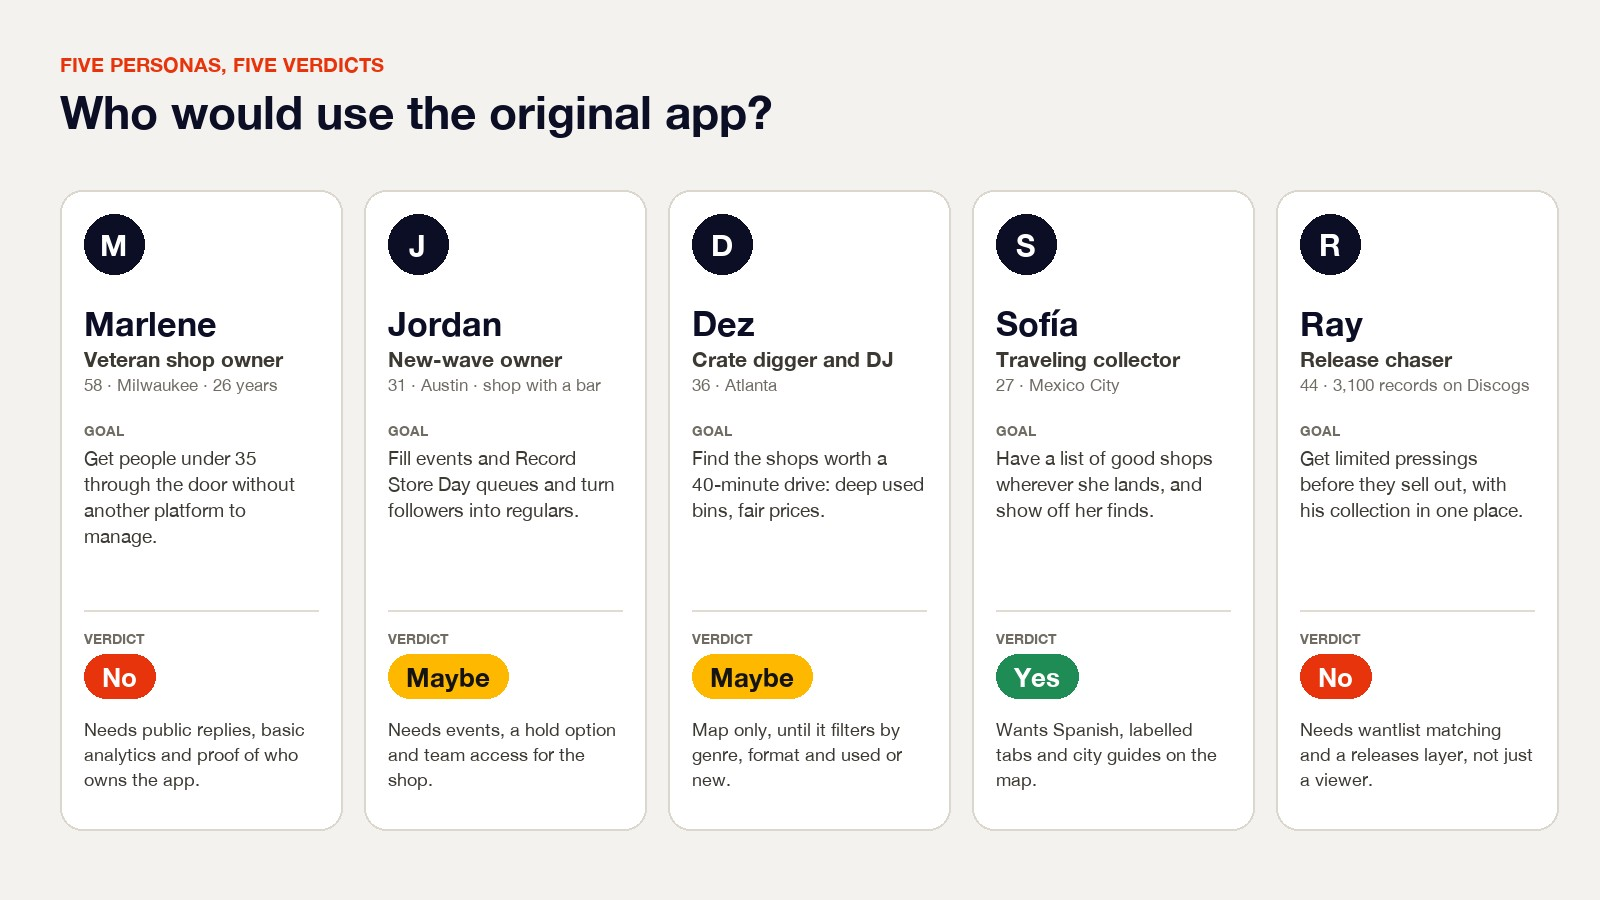
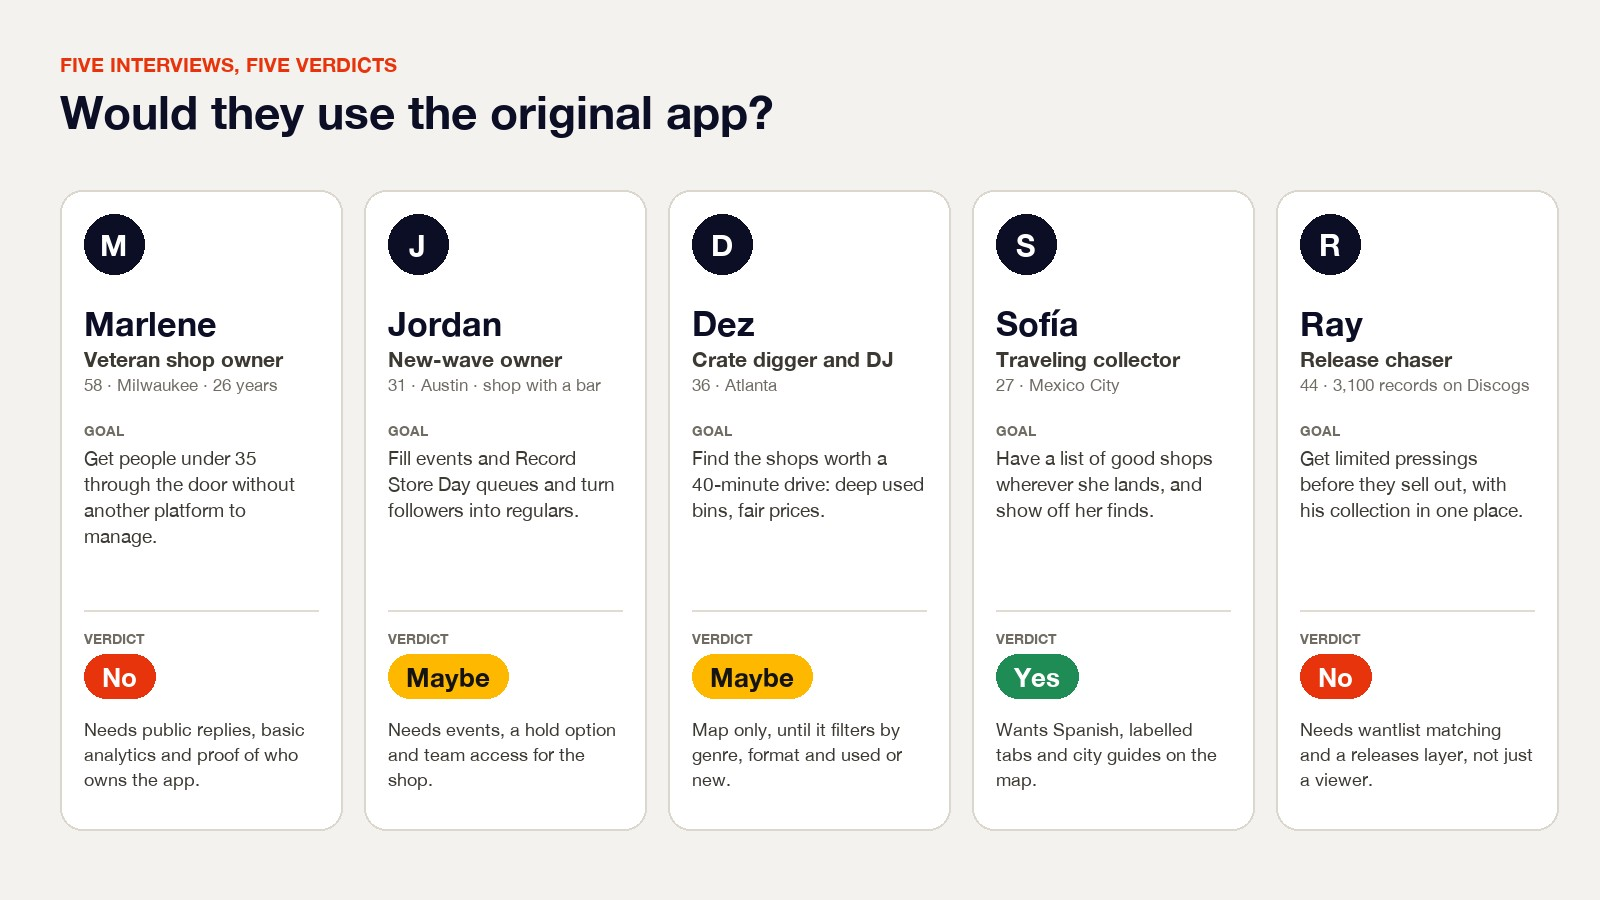
VinylMapper: describe the research as five interviews

Changed region(s): [[0.0625, 0.0622, 0.4688, 0.1556]]

diff --git a/js/projects-data.js b/js/projects-data.js
@@ -628,28 +628,28 @@ const PROJECTS = [
     "tools": [
       "Figma"
     ],
-    "excerpt": "A redesign of a social app for record collectors, driven by a persona research round that turned five verdicts into a ranked list of changes.",
+    "excerpt": "A redesign of a social app for record collectors, driven by five interviews that turned five verdicts into a ranked list of changes.",
     "showcase": "assets/images/vinylmapper_case_cover.png?v=2",
     "cover": "assets/images/vinylmapper-header.jpg?v=2",
     "gallery": [],
     "caseStudy": {
-      "outcome": "Turning five personas’ verdicts into a clearer, more useful VinylMapper.",
+      "outcome": "Turning five interviews into a clearer, more useful VinylMapper.",
       "summary": {
-        "problem": "VinylMapper is a social app where record collectors find stores, follow them, review them and share what they find. Its prototype looked good, but it had not picked a main job. I ran a persona research round on the original design, ranked the findings and redesigned the navigation and the product around them.",
+        "problem": "VinylMapper is a social app where record collectors find stores, follow them, review them and share what they find. Its prototype looked good, but it had not picked a main job. I interviewed five people on the original design, ranked the findings and redesigned the navigation and the product around them.",
         "role": "UX/UI designer",
-        "scope": "Persona research, navigation, interface and prioritised changes · 2025–2026",
+        "scope": "Interviews, navigation, interface and prioritised changes · 2025–2026",
         "team": "Agency product team",
         "duration": "2025–2026",
         "result": {
           "value": "2 No · 2 Maybe · 1 Yes",
-          "label": "the five personas’ verdicts on the original, and the brief for what changed"
+          "label": "the five interviewees’ verdicts on the original, and the brief for what changed"
         }
       },
       "problem": {
         "heading": "A good-looking app that had not picked a main job",
         "text": [
           "VinylMapper lets collectors find record stores on a map, follow them, review them, check in and share what they find, and lets store owners claim and manage their listing. The first version had well over a hundred screens and states, and a navigation that had grown screen by screen: five equal tabs, three icon-only tab sets and a More menu with eleven tiles.",
-          "To see how it held up, I walked the original prototype with five personas drawn from its audiences: two store owners, a crate digger, a traveling collector and a release chaser. Only one of the five would have used it as it was. The others said Maybe or No, for reasons that pointed to the same few problems.",
+          "To see how it held up, I interviewed five people from its audiences while they walked through the original prototype: two store owners, a crate digger, a traveling collector and a release chaser. Only one of the five would have used it as it was. The others said Maybe or No, for reasons that pointed to the same few problems.",
           "The goal became to act on those problems in order of impact: pick a front door, use the data the app already collects, give owners a reason to stay, earn their trust and stop making people learn the app by tapping."
         ],
         "image": {
@@ -661,8 +661,8 @@ const PROJECTS = [
         "text": "I worked on this at the agency that builds VinylMapper. I ran the research round, turned it into a ranked list of changes and redesigned the product around it, from the navigation to the owner tools.",
         "scope": [
           {
-            "label": "Persona research",
-            "text": "Five personas, covering owners and collectors, each walked through the original prototype."
+            "label": "Interviews",
+            "text": "Five people, covering owners and collectors, each walked through the original prototype."
           },
           {
             "label": "Findings and priorities",
@@ -687,7 +687,7 @@ const PROJECTS = [
         ]
       },
       "decisions": {
-        "heading": "Six changes, each traced to what the personas said",
+        "heading": "Six changes, each traced to what people said",
         "items": [
           {
             "title": "Make the map the front door, and keep Create one tap away",
@@ -779,13 +779,13 @@ const PROJECTS = [
         "heading": "From verdicts to a ranked set of changes",
         "items": [
           {
-            "caption": "1. Five personas, one list of findings",
+            "caption": "1. Five interviews, one list of findings",
             "problem": "The prototype looked good, but nobody had checked whether it worked for the people it was for.",
-            "solution": "Walk it with five personas, then trace every finding to who raised it and rank it.",
-            "text": "I built five personas around the app’s audiences: Marlene, a veteran shop owner; Jordan, who runs a newer shop with a bar; Dez, a crate digger and DJ; Sofía, a collector who travels; and Ray, a release chaser with his collection on Discogs. Each walked the original prototype and gave a verdict. Seven findings came out of it, from having no main job to small details like mixed units. I ranked them from P0 to P2, and every change in the redesign points back to one of them.",
+            "solution": "Interview five people as they walk it, then trace every finding to who raised it and rank it.",
+            "text": "I interviewed five people from the app’s audiences: Marlene, a veteran shop owner; Jordan, who runs a newer shop with a bar; Dez, a crate digger and DJ; Sofía, a collector who travels; and Ray, a release chaser with his collection on Discogs. Each one walked through the original prototype and gave a verdict. Seven findings came out of it, from having no main job to small details like mixed units. I ranked them from P0 to P2, and every change in the redesign points back to one of them.",
             "images": [
               {
-                "src": "assets/images/vk-panel.jpg"
+                "src": "assets/images/vk-panel.jpg?v=2"
               },
               {
                 "src": "assets/images/vk-findings.jpg"
@@ -845,12 +845,12 @@ const PROJECTS = [
           },
           {
             "caption": "5. Validate before building",
-            "problem": "These changes rest on personas, so they need real people before they are built.",
+            "problem": "These changes rest on five interviews, a small sample, so they need a wider check before they are built.",
             "solution": "Plan a 5-user usability test, owner interviews and a first-click test on tab order.",
             "text": "The redesign is a set of bets, and I wrote down how to check them. A usability test with five people, two store owners, two diggers or release chasers and one traveler, on tasks like finding an open used-soul shop within 10 miles, claiming a store and posting an event. Owner interviews before any owner tool is built, asking what proof would make them post weekly. And a first-click test comparing a Map-first with a Feed-first landing, to ship the order that wins on discovery tasks.",
             "images": [
               {
-                "src": "assets/images/vk-validation.jpg"
+                "src": "assets/images/vk-validation.jpg?v=2"
               }
             ]
           }
@@ -861,7 +861,7 @@ const PROJECTS = [
         "items": [
           {
             "value": "7 findings",
-            "label": "Ranked from P0 to P2 and traced to the persona who raised each one."
+            "label": "Ranked from P0 to P2 and traced to the person who raised each one."
           },
           {
             "value": "40 screens",
@@ -872,7 +872,7 @@ const PROJECTS = [
             "label": "Planned before building: a 5-user usability test, owner interviews and a first-click test on tab order."
           }
         ],
-        "note": "The research is a persona walkthrough of the prototype, not a study with real users, so the verdicts and findings are directional until the validation plan is run."
+        "note": "Five interviews are a small, qualitative sample, so the verdicts and findings are directional until the validation plan is run."
       },
       "learnings": {
         "heading": "Pick a front door, then earn the rest",

diff --git a/index.html b/index.html
@@ -14,10 +14,10 @@
 <link rel="preconnect" href="https://fonts.gstatic.com" crossorigin>
 <link href="https://fonts.googleapis.com/css2?family=Inter:wght@400;500;600;700;800&display=swap" rel="stylesheet">
 
-<link rel="stylesheet" href="css/style.css?v=20261161">
-<link rel="stylesheet" href="css/home.css?v=20261161">
-<link rel="stylesheet" href="css/hero-lab.css?v=20261161">
-<script src="js/page-wipe.js?v=20261161"></script>
+<link rel="stylesheet" href="css/style.css?v=20261162">
+<link rel="stylesheet" href="css/home.css?v=20261162">
+<link rel="stylesheet" href="css/hero-lab.css?v=20261162">
+<script src="js/page-wipe.js?v=20261162"></script>
 </head>
 <body data-page="work">
 
@@ -133,15 +133,15 @@
 <!-- InertiaPlugin was only used by the dot-grid background below; re-enable
      it alongside the dot-grid script tag if that background comes back. -->
 <!-- <script src="https://cdn.jsdelivr.net/npm/gsap@3.13.0/dist/InertiaPlugin.min.js"></script> -->
-<script src="js/main.js?v=20261161"></script>
-<script src="js/cursor.js?v=20261161"></script>
-<!-- <script src="js/dot-grid.js?v=20261161"></script> -->
-<script src="js/cursor-trail.js?v=20261161"></script>
-<script src="js/text-type.js?v=20261161"></script>
-<script src="js/accordion-gallery.js?v=20261161"></script>
-<script src="js/projects-data.js?v=20261161"></script>
-<script src="js/home.js?v=20261161"></script>
-<script src="js/tech-text.js?v=20261161"></script>
-<script src="js/hero-lab.js?v=20261161"></script>
+<script src="js/main.js?v=20261162"></script>
+<script src="js/cursor.js?v=20261162"></script>
+<!-- <script src="js/dot-grid.js?v=20261162"></script> -->
+<script src="js/cursor-trail.js?v=20261162"></script>
+<script src="js/text-type.js?v=20261162"></script>
+<script src="js/accordion-gallery.js?v=20261162"></script>
+<script src="js/projects-data.js?v=20261162"></script>
+<script src="js/home.js?v=20261162"></script>
+<script src="js/tech-text.js?v=20261162"></script>
+<script src="js/hero-lab.js?v=20261162"></script>
 </body>
 </html>

diff --git a/project.html b/project.html
@@ -14,9 +14,9 @@
 <link rel="preconnect" href="https://fonts.gstatic.com" crossorigin>
 <link href="https://fonts.googleapis.com/css2?family=Inter:wght@400;500;600;700;800&display=swap" rel="stylesheet">
 
-<link rel="stylesheet" href="css/style.css?v=20261161">
-<link rel="stylesheet" href="css/project.css?v=20261161">
-<script src="js/page-wipe.js?v=20261161"></script>
+<link rel="stylesheet" href="css/style.css?v=20261162">
+<link rel="stylesheet" href="css/project.css?v=20261162">
+<script src="js/page-wipe.js?v=20261162"></script>
 </head>
 <body>
 
@@ -70,9 +70,9 @@
   </div>
 </footer>
 
-<script src="js/main.js?v=20261161"></script>
-<script src="js/cursor.js?v=20261161"></script>
-<script src="js/projects-data.js?v=20261161"></script>
-<script src="js/project-page.js?v=20261161"></script>
+<script src="js/main.js?v=20261162"></script>
+<script src="js/cursor.js?v=20261162"></script>
+<script src="js/projects-data.js?v=20261162"></script>
+<script src="js/project-page.js?v=20261162"></script>
 </body>
 </html>

diff --git a/hero-lab.html b/hero-lab.html
@@ -15,8 +15,8 @@
 <link rel="preconnect" href="https://fonts.gstatic.com" crossorigin>
 <link href="https://fonts.googleapis.com/css2?family=Inter:wght@400;500;600;700;800&display=swap" rel="stylesheet">
 
-<link rel="stylesheet" href="css/style.css?v=20261161">
-<link rel="stylesheet" href="css/hero-lab.css?v=20261161">
+<link rel="stylesheet" href="css/style.css?v=20261162">
+<link rel="stylesheet" href="css/hero-lab.css?v=20261162">
 </head>
 <body data-page="lab">
 
@@ -71,9 +71,9 @@
   </section>
 </main>
 
-<script src="js/main.js?v=20261161"></script>
-<script src="js/cursor.js?v=20261161"></script>
-<script src="js/tech-text.js?v=20261161"></script>
-<script src="js/hero-lab.js?v=20261161"></script>
+<script src="js/main.js?v=20261162"></script>
+<script src="js/cursor.js?v=20261162"></script>
+<script src="js/tech-text.js?v=20261162"></script>
+<script src="js/hero-lab.js?v=20261162"></script>
 </body>
 </html>

diff --git a/about.html b/about.html
@@ -14,9 +14,9 @@
 <link rel="preconnect" href="https://fonts.gstatic.com" crossorigin>
 <link href="https://fonts.googleapis.com/css2?family=Inter:wght@400;500;600;700;800&display=swap" rel="stylesheet">
 
-<link rel="stylesheet" href="css/style.css?v=20261161">
-<link rel="stylesheet" href="css/about.css?v=20261161">
-<script src="js/page-wipe.js?v=20261161"></script>
+<link rel="stylesheet" href="css/style.css?v=20261162">
+<link rel="stylesheet" href="css/about.css?v=20261162">
+<script src="js/page-wipe.js?v=20261162"></script>
 </head>
 <body data-page="about">
 
@@ -169,7 +169,7 @@
   </div>
 </footer>
 
-<script src="js/main.js?v=20261161"></script>
-<script src="js/cursor.js?v=20261161"></script>
+<script src="js/main.js?v=20261162"></script>
+<script src="js/cursor.js?v=20261162"></script>
 </body>
 </html>
